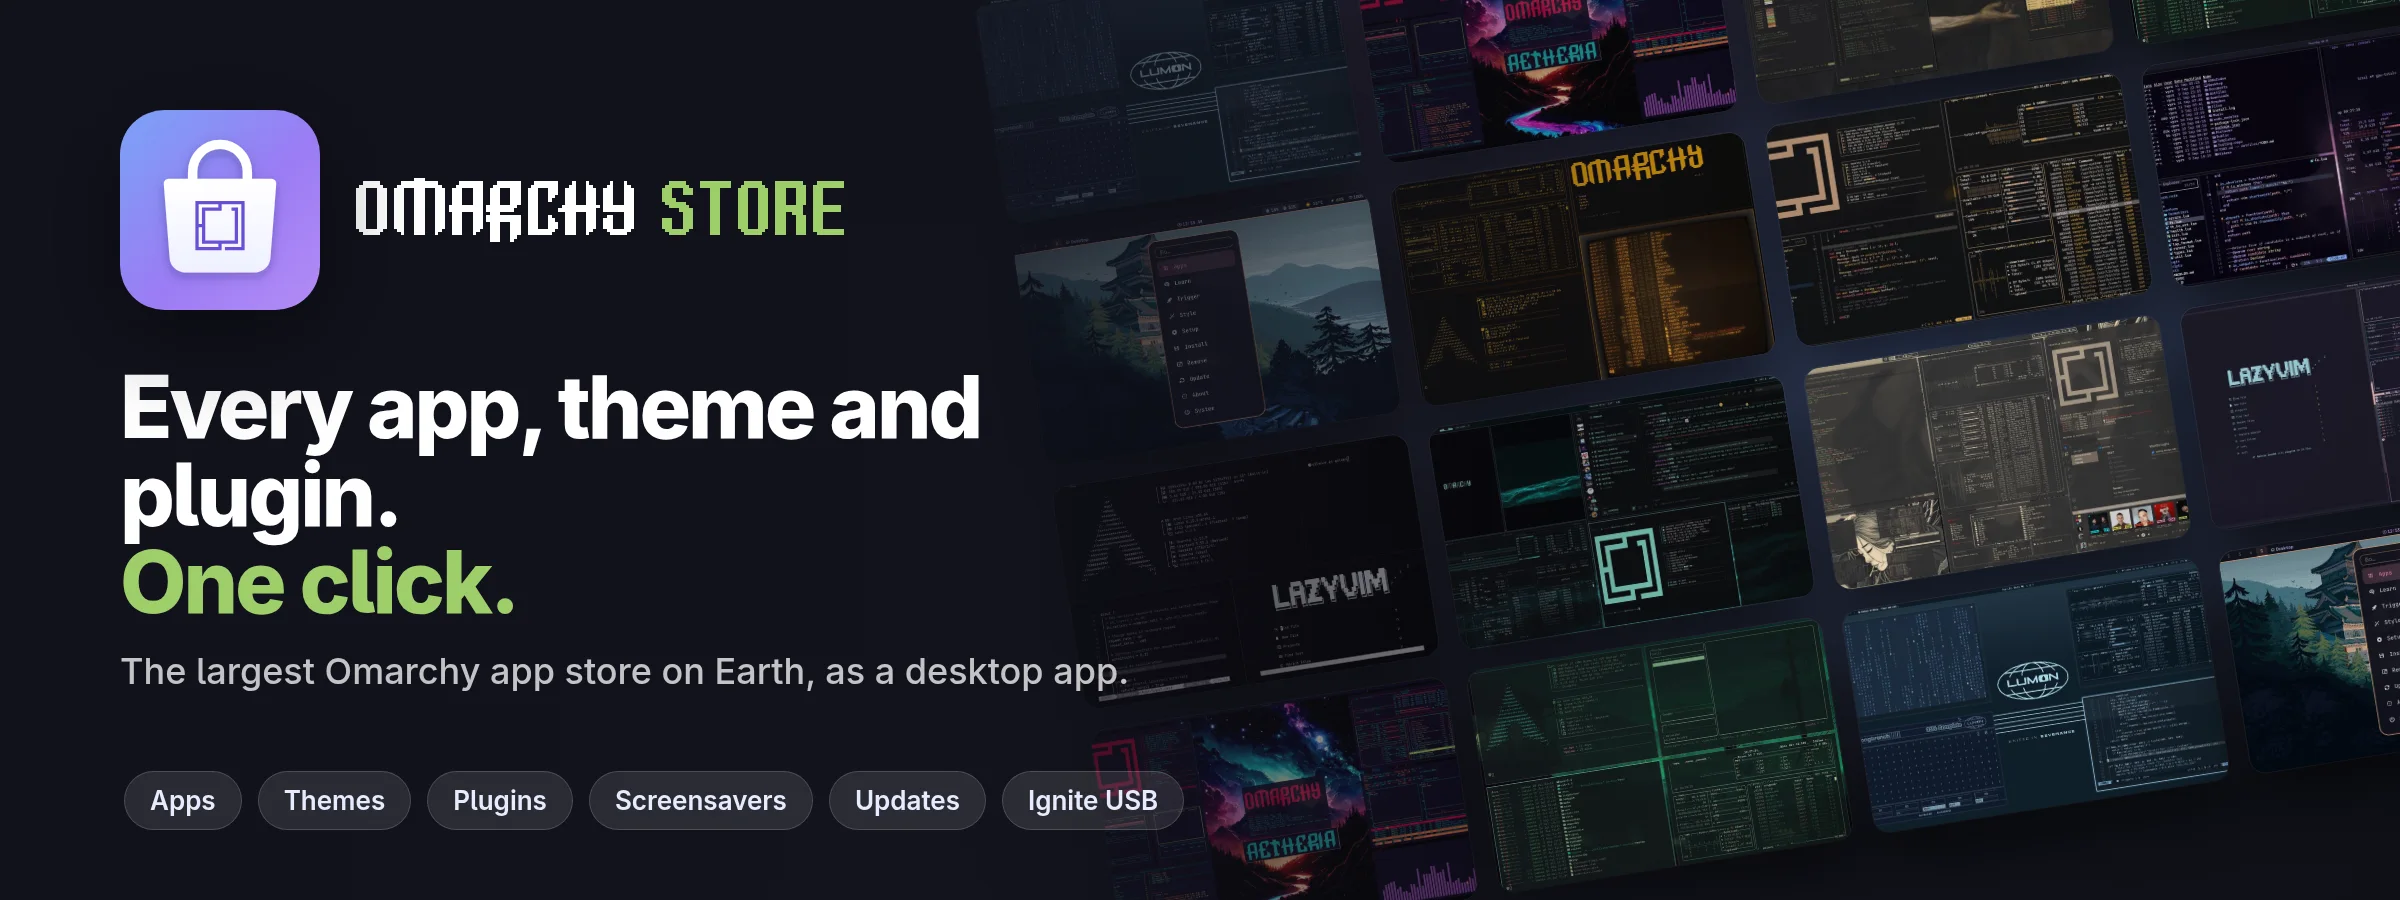
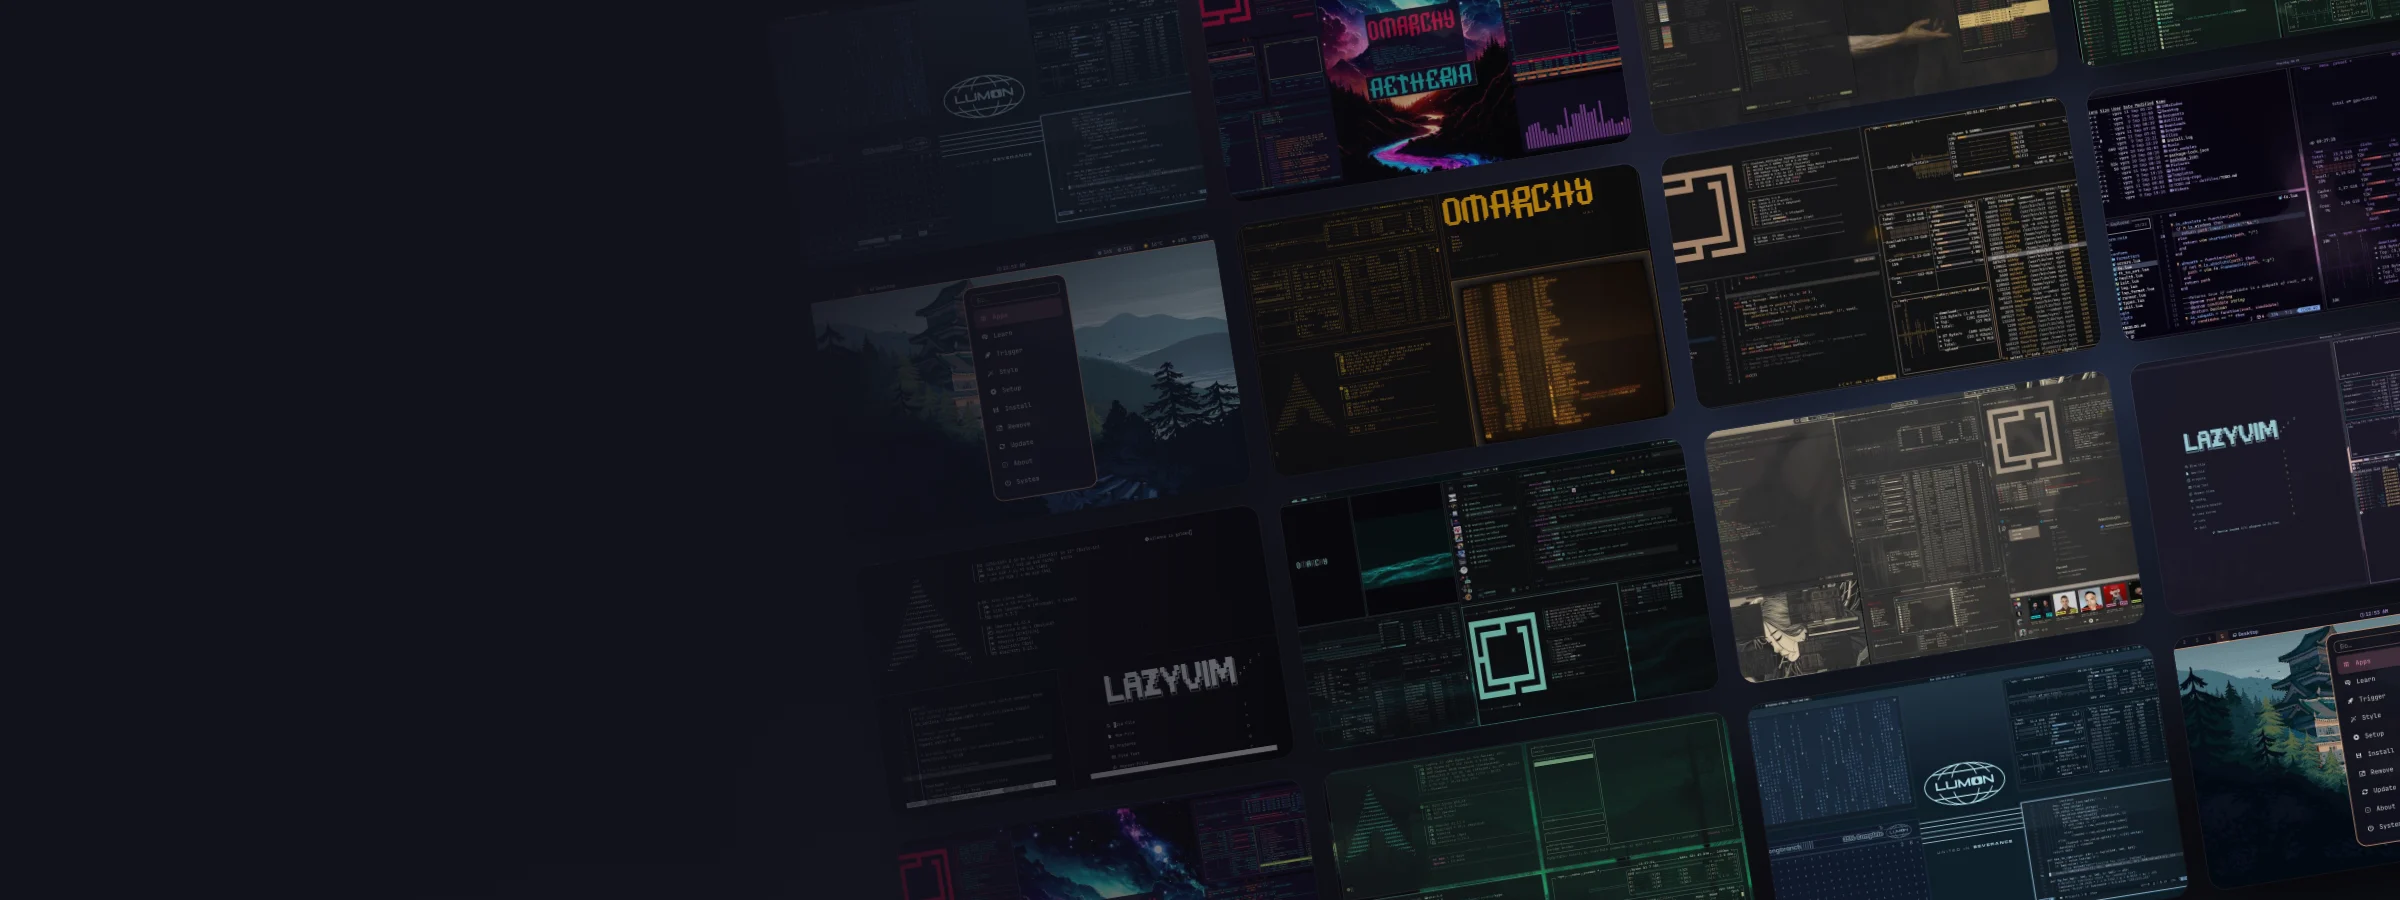
Omarchy Store listing: text-free billboard art (the page draws the headline itself; the old art doubled and cropped it on phones)

diff --git a/promo/og/store-billboard-art.html b/promo/og/store-billboard-art.html
@@ -1,0 +1,29 @@
+<!doctype html>
+<html><head><meta charset="utf-8"><style>
+/* 2400x900 billboard for the Omarchy Store's own listing: logo + wordmark on the left, a tilted wall of theme previews on the right */
+*{margin:0;padding:0;box-sizing:border-box}
+body{width:2400px;height:900px;overflow:hidden;font-family:"Adwaita Sans","Inter","Noto Sans",sans-serif;-webkit-font-smoothing:antialiased;color:#fff;
+ background:radial-gradient(1200px 800px at 80% 40%, rgba(122,162,247,.35), transparent 60%),radial-gradient(900px 700px at 20% 110%, rgba(158,206,106,.22), transparent 60%),radial-gradient(800px 600px at 60% -10%, rgba(187,154,247,.3), transparent 60%),linear-gradient(135deg,#12121c,#16161e 55%,#0f1017)}
+.wall{position:absolute;right:-140px;top:-120px;width:1700px;display:grid;grid-template-columns:repeat(4,1fr);gap:22px;transform:rotate(-9deg);opacity:.95}
+.wall img{width:100%;aspect-ratio:16/10;object-fit:cover;border-radius:16px;box-shadow:0 30px 60px rgba(0,0,0,.6),0 0 0 1px rgba(255,255,255,.08)}
+.fade{position:absolute;inset:0;background:linear-gradient(90deg,#12121c 0%,rgba(18,18,28,.97) 30%,rgba(18,18,28,.75) 40%,rgba(18,18,28,.25) 62%,rgba(18,18,28,0) 80%)}
+.copy{position:absolute;left:120px;top:110px;width:1150px}
+.brand{display:flex;align-items:center;gap:36px}
+.brand .logo{width:200px;height:200px;filter:drop-shadow(0 24px 50px rgba(0,0,0,.5))}
+.wm{display:flex;align-items:center;gap:28px}
+.wm img{height:64px;image-rendering:pixelated}
+h1{font-size:86px;line-height:1.02;font-weight:800;letter-spacing:-3px;margin-top:54px}
+h1 span{color:#9ece6a}
+.sub{font-size:36px;color:rgba(255,255,255,.75);margin-top:22px;font-weight:500}
+.chips{position:absolute;left:124px;bottom:70px;display:flex;gap:16px}
+.chips span{padding:14px 26px;border-radius:999px;font-size:26px;font-weight:600;color:#e6ecff;background:rgba(255,255,255,.10);box-shadow:inset 0 0 0 1px rgba(255,255,255,.16)}
+</style></head><body>
+<div class="wall">
+ <img src="t/omarchy-lumon-theme.jpg"><img src="t/aetheria.jpg"><img src="t/miasma.jpg"><img src="t/osaka-jade.jpg">
+ <img src="t/copper-night.jpg"><img src="t/retropc.jpg"><img src="t/aamis.jpg"><img src="t/void.jpg">
+ <img src="t/felix.jpg"><img src="t/blackturq.jpg"><img src="t/mecha-no-onna.jpg"><img src="t/rose-pine-dark.jpg">
+ <img src="t/aetheria.jpg"><img src="t/osaka-jade.jpg"><img src="t/omarchy-lumon-theme.jpg"><img src="t/copper-night.jpg">
+</div>
+<div class="fade"></div>
+
+</body></html>
